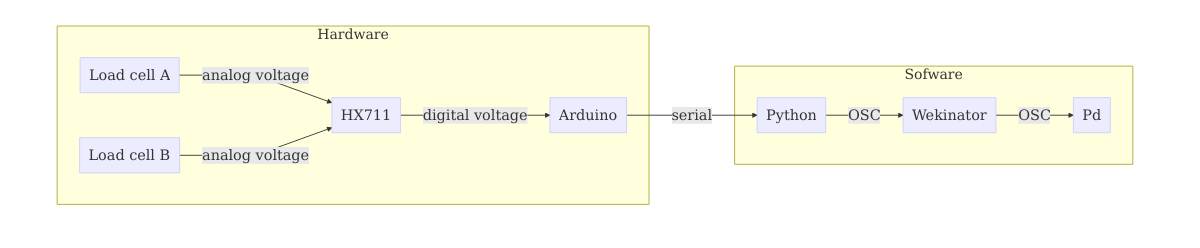
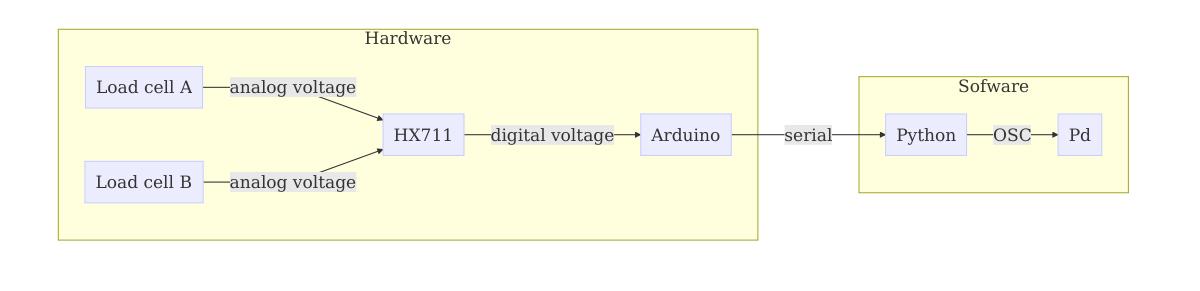
Remove the weki from the diagram (on README). Fix #1

Changed region(s): [[0.0308, 0.0847, 0.9558, 0.8468]]

diff --git a/report/diagram.md b/report/diagram.md
@@ -6,6 +6,5 @@ graph LR
   end
   subgraph Sofware
     Arduino -- serial --> Python
-    Python -- OSC --> Wekinator
-    Wekinator -- OSC --> Pd
+    Python -- OSC --> Pd
   end
